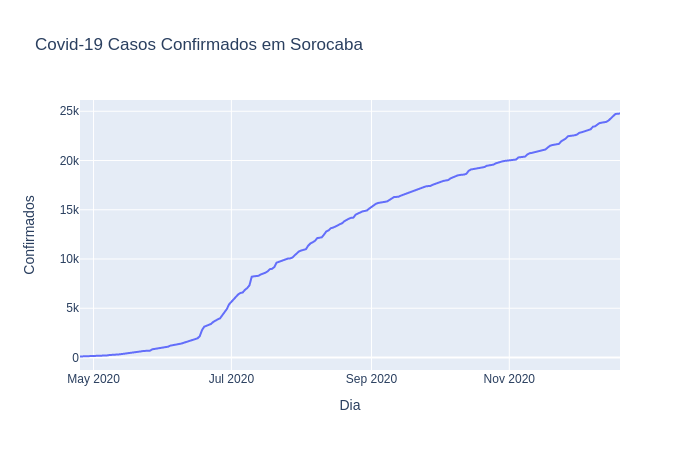
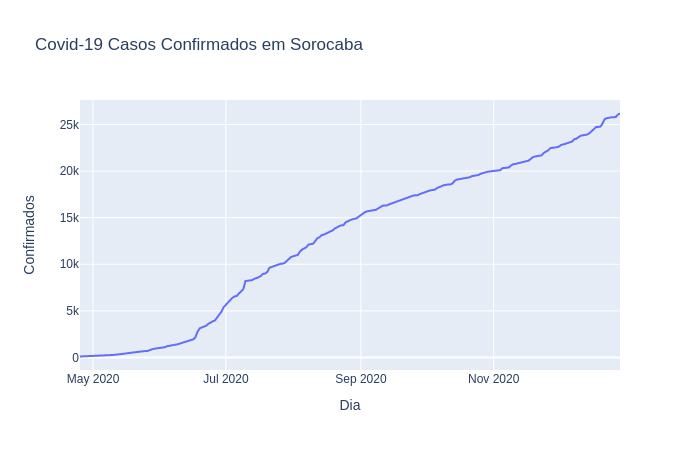
dados atualizados 29/12

diff --git a/README.md b/README.md
@@ -1,10 +1,10 @@
 ## Dados divulgados pela Prefeitura de Sorocaba sobre os casos de Covid-19
-### última atualização: 20/12/2020
+### última atualização: 29/12/2020
 
 Há uma planilha com os dados retirados das imagens divulgadas [AQUI](https://github.com/lucas-koiti/covid19-sorocaba/blob/master/dados/planilha_csv/dados.csv).
 
 ### Taxa de Letalidade
-2.16% 
+2.15% 
 
 ## Gráfico de casos confirmados.
 <img src= "confirmados.png">
